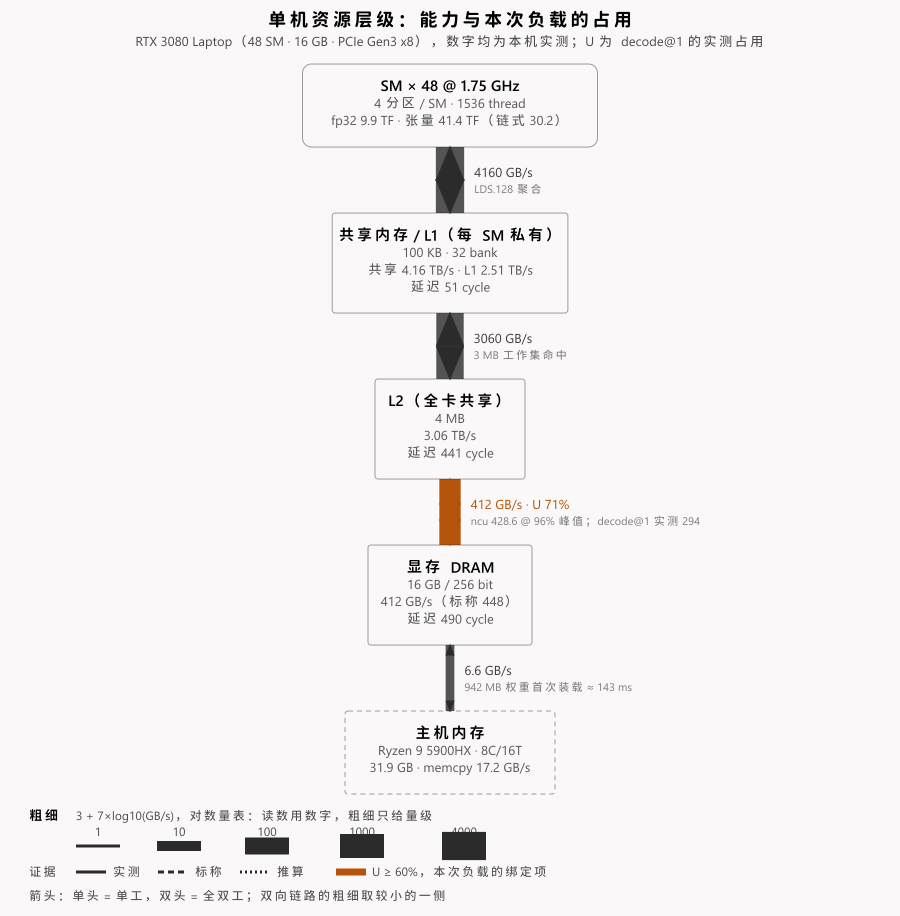
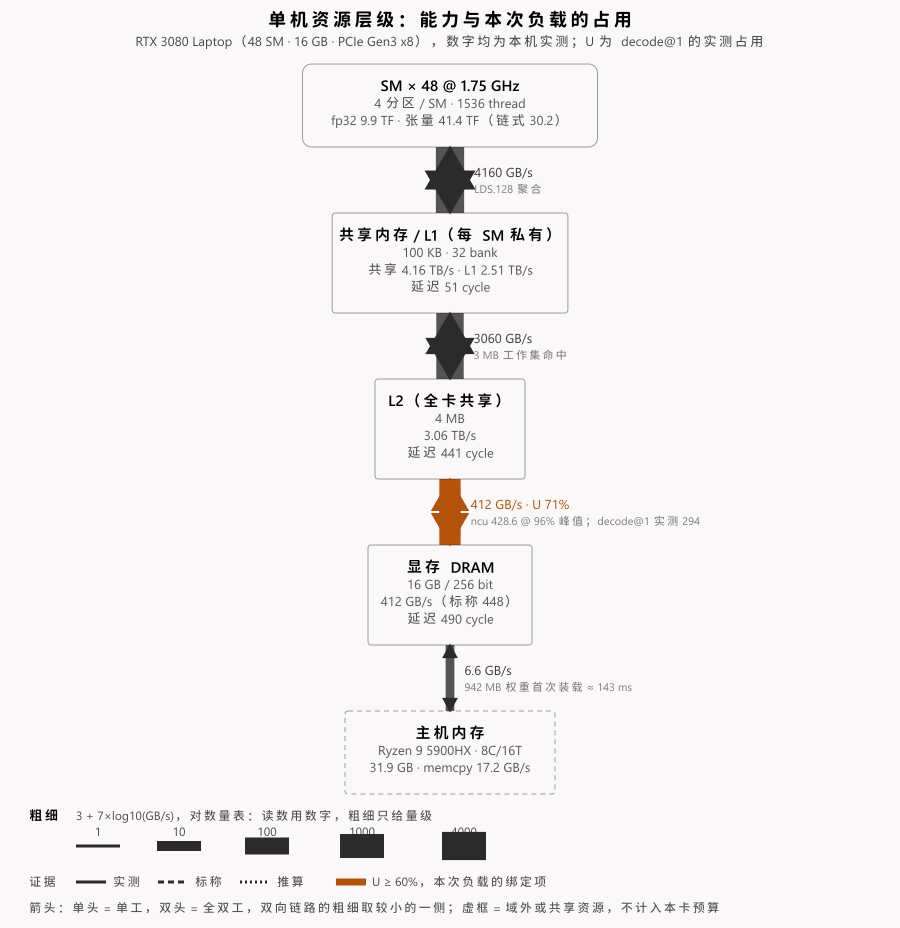
vault backup: 2026-10-29 18:09:52

diff --git a/tools/envmap.py b/tools/envmap.py
@@ -114,7 +114,7 @@ def ports(a, b, horizontal):
 def head(p, u, w, colour):
     """Arrowhead as an explicit triangle: markers default to strokeWidth units and
     their orientation is one more thing to get wrong."""
-    L, hw = max(10.0, w * 1.2), max(4.5, w * 0.52)
+    L, hw = max(12.0, w * 1.5), max(6.0, w * 0.9)
     ax, ay = p[0] + u[0] * 1.5, p[1] + u[1] * 1.5
     bx, by = p[0] - u[0] * L, p[1] - u[1] * L
     px, py = -u[1], u[0]
@@ -152,7 +152,7 @@ def legend(spec, y):
         out.append(f'<line x1="{x:.1f}" y1="{y + 26:.1f}" x2="{x + 44:.1f}" '
                    f'y2="{y + 26:.1f}" stroke="{INK}" stroke-width="{w:.1f}"/>')
         x += 44 + max(26.0, text_w(str(bw)) + 30)
-    y2 = y + 56
+    y2 = y + 66
     out.append(f'<text x="28" y="{y2:.1f}" font-size="{FONT - 1}" fill-opacity="0.7">证据</text>')
     x = 76
     for dash, label in [("", "实测"), ("6 4", "标称"), ("2 3", "推算")]:
@@ -166,9 +166,10 @@ def legend(spec, y):
                f'stroke="{ACCENT}" stroke-width="7"/>')
     out.append(f'<text x="{x + 36}" y="{y2:.1f}" font-size="{FONT - 1}" '
                f'fill-opacity="0.7">U ≥ 60%，本次负载的绑定项</text>')
-    y3 = y2 + 24
+    y3 = y2 + 26
     out.append(f'<text x="28" y="{y3:.1f}" font-size="{FONT - 1}" fill-opacity="0.7">'
-               f'箭头：单头 = 单工，双头 = 全双工；双向链路的粗细取较小的一侧</text>')
+               f'箭头：单头 = 单工，双头 = 全双工，双向链路的粗细取较小的一侧；'
+               f'虚框 = 域外或共享资源，不计入本卡预算</text>')
     return "".join(out), y3 + 16
 
 

diff --git a/content/人工智能/硬件-软件优化框架.md b/content/人工智能/硬件-软件优化框架.md
@@ -14,7 +14,7 @@
 
 1. **目标**：为谁优化什么？吞吐、延迟、尾延迟、能耗、成本还是恢复时间？
 2. **性质**：哪些条件必须成立？精度、一致性、持久性、安全边界是什么？
-3. **环境**：资源、拓扑、运行时、配额、共享干扰和故障域是什么？
+3. **环境**：资源、拓扑、运行时、配额、共享干扰和故障域是什么？（画法见 3.4）
 4. **需求**：每个有效结果需要多少计算、搬运、驻留、交互和依赖等待？
 5. **约束**：哪些条件限制了目标或威胁了性质？证据与替代解释是什么？
 6. **机制**：候选技术改变了模型里的哪一项？会把成本转移到哪里？
@@ -115,6 +115,67 @@ $$
 分别表示计算、各级数据流量、驻留需求、依赖图、通信轮次、提交次数、能量。该向量可以继续扩展；只纳入足以解释当前问题的变量。
 
 区分逻辑工作与实际工作：有效 FLOP 与执行 FLOP、有效字节与传输字节、用户请求与包含重试的后端请求。
+
+### 3.4 环境画像：一张图承载四个通道
+
+第 3 步（环境）用文字最难传达。一句“GPU 到主机 6.6 GB/s，全双工，实测”里挤着四个量：**能力**（6.6）、**方向**（全双工）、**证据等级**（实测）、**本次负载的占用**（可能只有 0.1）。读者要在一句话里心算四个量纲；这句话每被转述一次，就丢一个维度——“带宽低”传到第三个人耳朵里时，是 6.6 还是 0.76，方向是单向还是双向，通常已经没人知道了。
+
+把这四个量分到四个独立通道，一条边加一个节点就够：
+
+| 通道   | 编码的量   | 规则                                    |
+| ---- | ------ | ------------------------------------- |
+| 线宽   | 可持续带宽  | 对数刻度：$w = 3 + 7\log_{10}(\beta/\mathrm{GB/s})$ px，夹在 2–30 px |
+| 线端   | 方向     | 单头 = 单工，双头 = 全双工                      |
+| 线型   | 证据等级   | 实线 = 本机实测，虚线 = 规格标称，点线 = 推算            |
+| 颜色   | 利用率 U  | 中性 < 60%，琥珀色 ≥ 60%，即本次负载的绑定项          |
+| 节点形状 | 资源类型   | 圆角 = 计算，方角 = 存储，虚框 = 域外或共享、不计入本卡预算     |
+
+（节点内写能力的三级数字：标称、可持续、本任务有效预算——见 3.2。）
+
+**三条规则，不遵守图就会骗人：**
+
+1. **线宽只给量级，读数靠数字，且图例必须画出真实刻度的样张。** 本机从 0.76 GB/s 到 4.16 TB/s 跨了 5500 倍，线性刻度会让 PCIe 和 TCP 直接消失，所以只能用对数；代价是“看起来差不多”的两条线可能差两倍——因此每条边必须标数字，图例必须能让人量出比例。
+2. **双向链路的粗细取较小的一侧。** PCIe 的 H2D 与 D2H 不等宽（还受事务开销影响），按大的那侧做预算会直接算错上界。
+3. **证据等级不能省。** 412 GB/s（实测）和 448 GB/s（标称）画成同样一根线，等于把没测过的东西当成事实，而这正是“适用域”最容易被吃掉的地方（见 1.5）。
+
+**例一：单机资源层级。** 五级存储加一条跨 PCIe 的链路，橙色那条是 decode@1 的绑定项——988 MB 权重每 token 读一遍，实测 294 GB/s ÷ 412 GB/s = U 71%：
+
+![[资源图-单机层级.svg]]
+
+这张图一次回答了四个问题：每一级能力是多少、证据是什么等级、这份负载压在哪一条上、还差多少。文字版需要四句话，而且读者很难自己乘出“71%”。
+
+**例二：同一对进程的两种通道。** 同一套语法换一种拓扑：并联链路各占一条道。21 倍的差距用“较慢”两个字带过，是这类环境里最常见的判断失误来源：
+
+![[资源图-进程通道.svg]]
+
+**生成方式。** 图不手绘，改数字就重画：spec 是纯 JSON（节点、链路、带宽、证据等级、U），渲染器负责刻度、布局和对拍检查（文字重叠、越界、线宽与带宽的单调性都会直接报错）。
+
+```json
+{
+  "title": "同一对进程，两种传输机制：差 21 倍",
+  "scale": { "base_px": 3, "px_per_decade": 7, "ticks": [1, 10, 100, 1000] },
+  "nodes": [
+    { "id": "a", "col": 0, "kind": "compute", "title": "进程 A", "lines": ["持有 GPU 上下文"] },
+    { "id": "b", "col": 1, "kind": "compute", "title": "进程 B", "lines": ["无共享地址空间"] }
+  ],
+  "links": [
+    { "a": "a", "b": "b", "bw": 16.2, "evidence": "measured", "dir": "both", "label": "16.2 GB/s AF_UNIX" },
+    { "a": "a", "b": "b", "bw": 0.76, "evidence": "measured", "dir": "both", "label": "0.76 GB/s TCP" }
+  ]
+}
+```
+
+```bash
+python tools/envmap.py tools/envmaps/ipc-channels.json out.svg
+```
+
+**什么时候不该画：**
+
+- 单个能力数字，或与拓扑无关的排行榜——表格更快，也更容易引用（例如本机五条主机通道的分档，表格一行就够；画出来的价值只在“并联”这个结构本身）。
+- 时间顺序、阶段推进、依赖等待——那是时序或流程，用 mermaid，线宽没有意义。
+- 超过 8 条并列链路——图上认不出第 9 条，改用排序表再加一句“最慢的那条是绑定项”。
+
+**验收：图上必须能回答三个问题，否则重画。** 谁是绑定的那一条？每条边的数字是实测还是标称？离饱和还差多少（U）？答不出，说明图画成了数据表的插图，而不是环境画像。
 
 ## 4. 约束分类：开放目录
 
